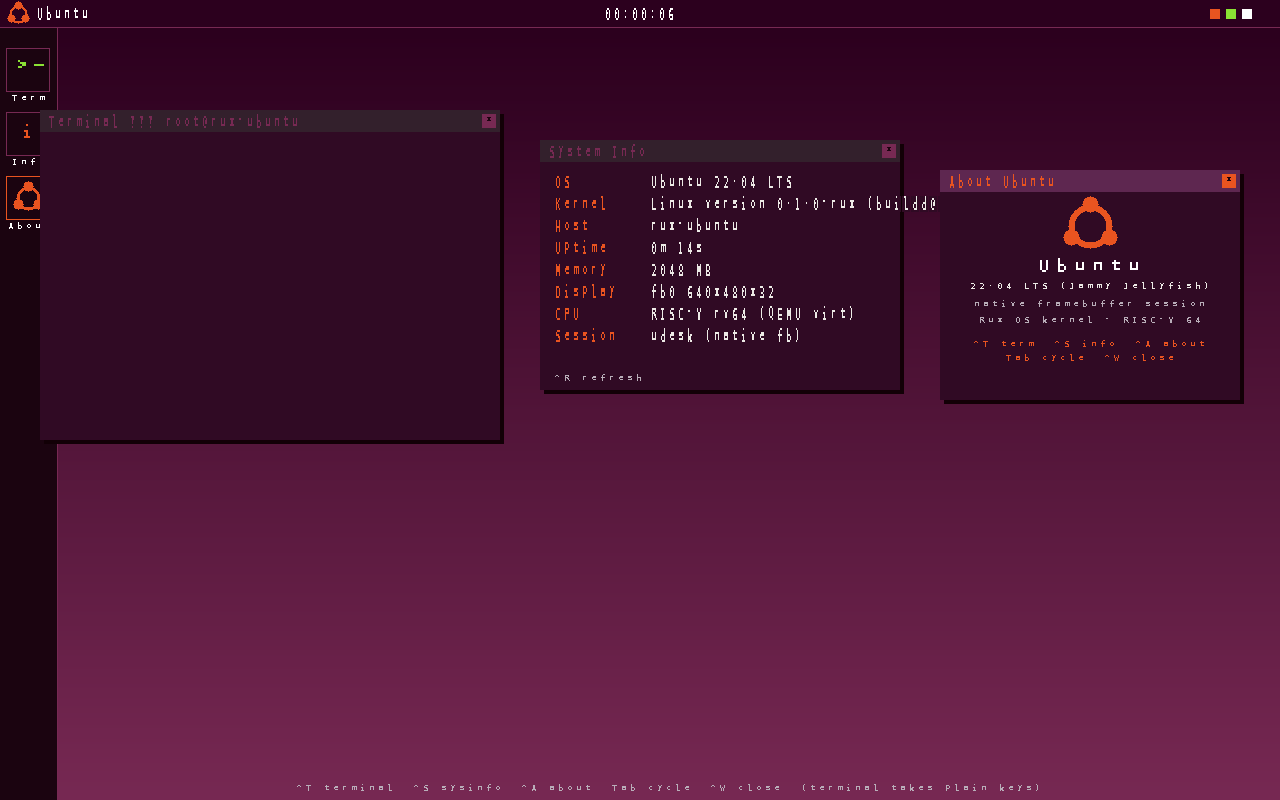
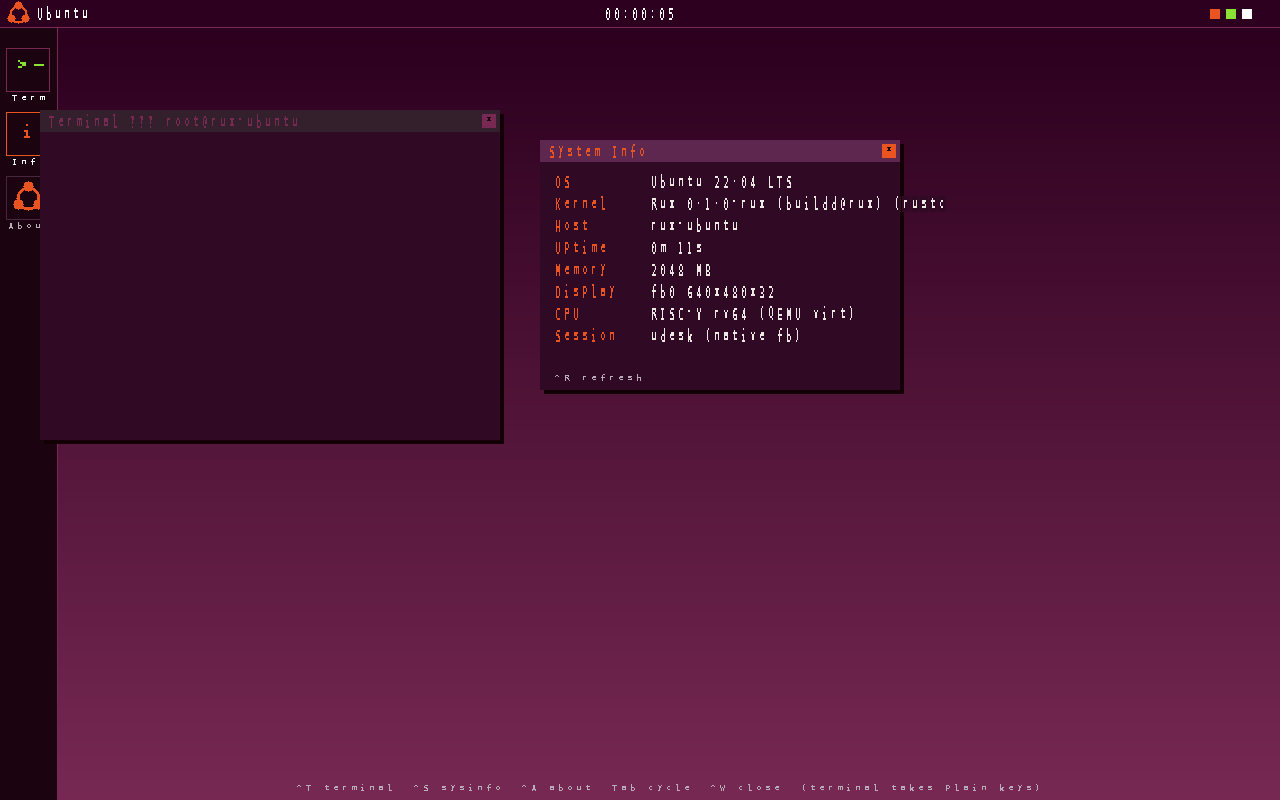
docs(readme): refresh screenshots from the latest verified boot
New captures from the current image and kernel: System Info now shown
with the Rux-branded kernel row ('Rux 0.1.0-rux (buildd@rux) (rustc …)'),
caption updated; fix the quoted release string (0.1.0-rux).

Changed region(s): [[0.7188, 0.4062, 0.9688, 0.5312], [0.7188, 0.1875, 0.9688, 0.3438], [0.4062, 0.1562, 0.7188, 0.2188]]

diff --git a/README.md b/README.md
@@ -26,7 +26,7 @@
 | ![Ubuntu login](docs/images/ubuntu-login.png) | ![Ubuntu desktop](docs/images/ubuntu-desktop.png) |
 | *Login screen (native framebuffer session)* | *Desktop with dock, top panel and windows* |
 | ![Apps](docs/images/ubuntu-apps.png) | ![Terminal](docs/images/ubuntu-terminal.png) |
-| *About / SysInfo applications* | *Terminal running a real `/bin/dash` shell — real commands, real output* |
+| *System Info — kernel row shows the Rux identity* | *Terminal running a real `/bin/dash` shell — real commands, real output* |
 
 What is running in these screenshots, all on the Rux kernel:
 
@@ -44,7 +44,7 @@ What is running in these screenshots, all on the Rux kernel:
   Linux-compatible strings — that identity is what lets unmodified
   Ubuntu/glibc binaries run without patches; the desktop's System Info
   panel surfaces the Rux identity over the same data
-  (`Rux 6.8.0-rux (buildd@rux) (rustc …) #1 SMP`)
+  (`Rux 0.1.0-rux (buildd@rux) (rustc …) #1 SMP`)
 - X11/Xorg brings-up and a full GNOME session image are in active development
   (see the [Roadmap](docs/progress/roadmap.md))
 
